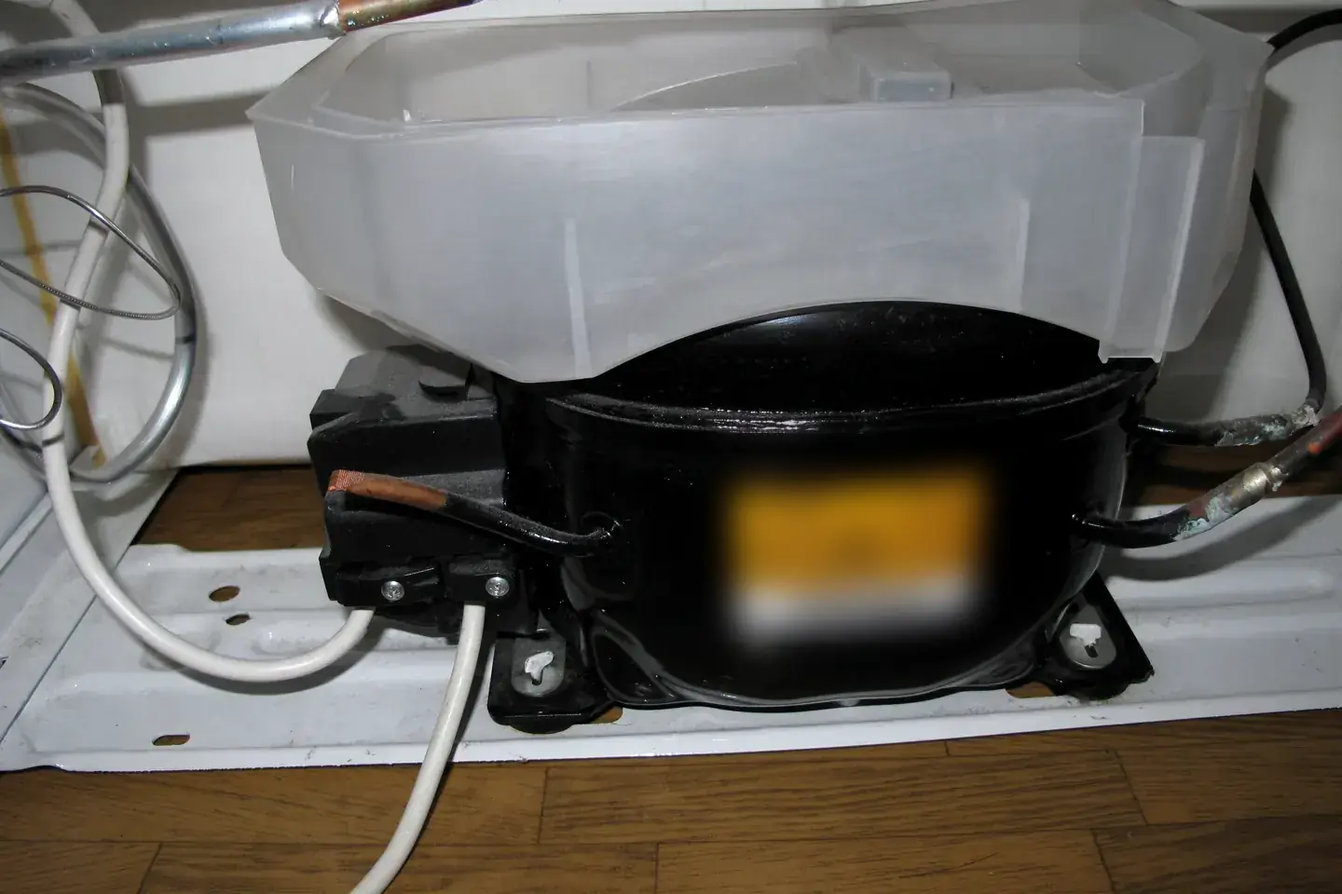
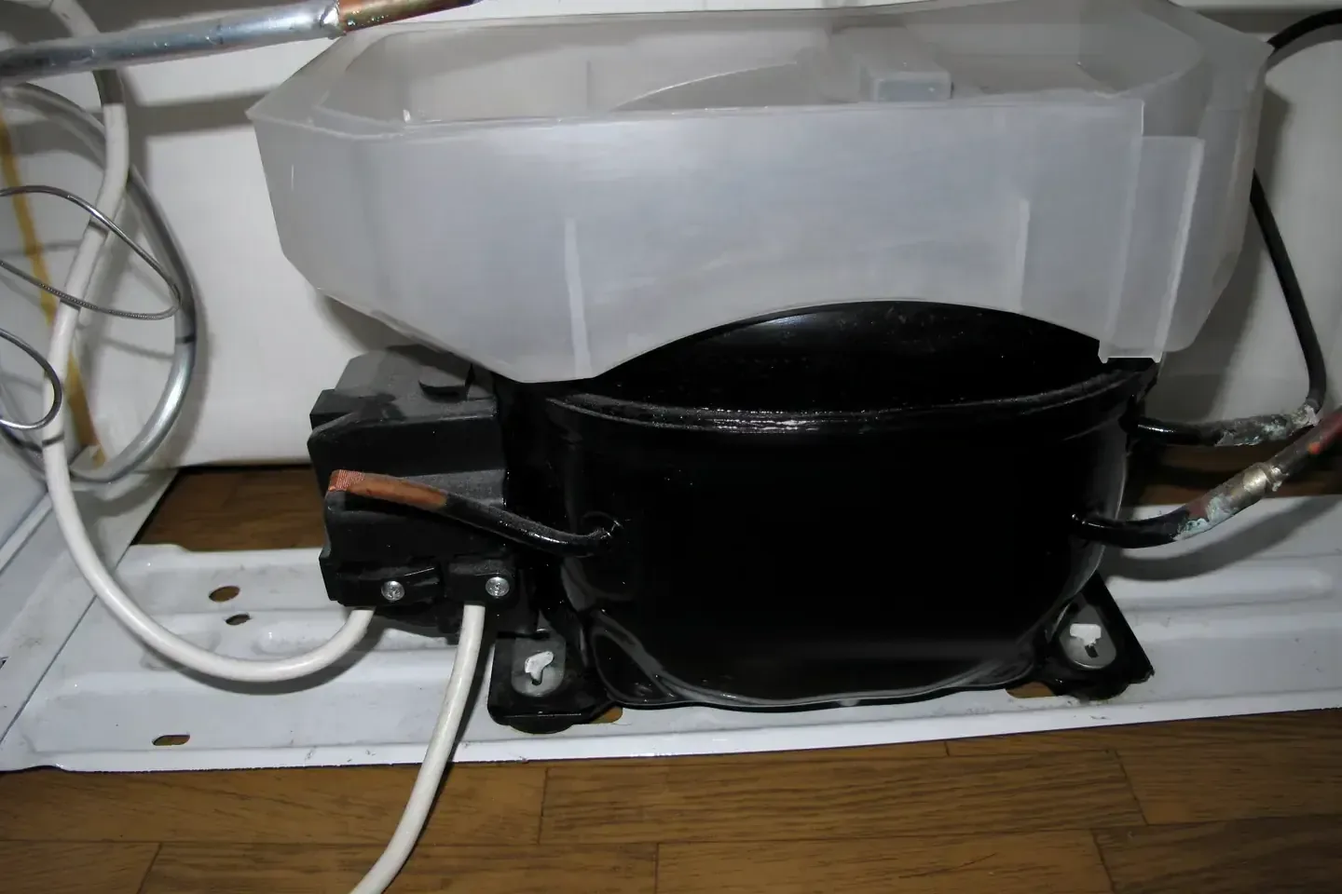
Corregir fallas visuales de Inicio, Servicios, Contacto y Agendar
- Franja: el giro ya no desborda la página en horizontal.
- Índice de servicios y rieles laterales: borde desvanecido y chip activo visible.
- Hablemos: botones apilados y alineados; teléfono sin mono.
- Chips de síntomas centrados; chips del hero dentro de la columna de texto.
- Aviso «Cuéntanos qué falla» legible y con área táctil de 44 px.
- Selector: foto real en Vitrina, última opción cierra la fila.
- Fotos: compresor sin etiqueta pixelada, manómetros sin manga militar,
  foto del técnico retirada; créditos declaran el retoque.
- Servicios: ficha sin foto en dos columnas y equipos repetidos ocultos.

Changed region(s): [[0.5312, 0.5, 0.75, 0.75]]

diff --git a/src/render.js b/src/render.js
@@ -56,10 +56,10 @@ export function footer(data, path) {
   const g = data.general;
   const cierre = library('cierre');
   const note = [!g.heroReal && 'Portada creada con IA.', fotos.length && 'Fotos de apoyo: Wikimedia Commons.'].filter(Boolean).join(' ') || 'Osorno, Región de Los Lagos';
-  return `<section class="closing noche"><div class="closing-hero">${cierre ? `<img class="closing-photo parallax" src="${cierre}" alt="" width="1440" height="960" loading="lazy" decoding="async" data-source="library-commons">` : ''}<div class="wrap"><p class="mono closing-kicker">Servicio técnico a domicilio</p><h2 data-reveal>¿Tu equipo falló?<br>Vamos a revisarlo.</h2><p>Escríbenos y agendamos la visita.</p><div class="closing-actions">${agendarVisita(data, path)}${link(`tel:${g.telefono}`, 'Llamar', 'outline')}</div></div></div><div class="wrap"><footer class="footer"><a class="logo logo-grande" href="/" aria-label="ZÉROK, inicio">${logo()}</a><p>Refrigeración &amp;<br>Climatización Profesional</p><div><a class="mono" href="tel:${g.telefono}">${g.telefonoVisible}</a><p>${hours(g)}<br>Osorno y sectores de Los Lagos</p></div><div><a href="${g.instagram}" rel="noopener noreferrer" target="_blank">${icon('instagram')}Instagram</a><a href="/contacto/">Contacto</a><a href="/privacidad/">Privacidad</a><a href="/creditos/">Créditos</a></div></footer><div class="footer-bottom"><span>© ${new Date().getFullYear()} ZÉROK</span><span>${note}</span><a href="/admin/">Administración</a></div></div></section><aside class="contact-bar" aria-label="Contacto rápido">${agendarVisita(data, path)}${link(`tel:${g.telefono}`, 'Llamar', 'outline')}</aside>`;
+  return `<section class="closing noche"><div class="closing-hero">${cierre ? `<img class="closing-photo parallax" src="${cierre}" alt="" width="1440" height="960" loading="lazy" decoding="async" data-source="library-commons">` : ''}<div class="wrap"><p class="mono closing-kicker">Servicio técnico a domicilio</p><h2 data-reveal>¿Tu equipo falló?<br>Vamos a revisarlo.</h2><p>Escríbenos y agendamos la visita.</p><div class="closing-actions">${agendarVisita(data, path)}${link(`tel:${g.telefono}`, 'Llamar', 'outline')}</div></div></div><div class="wrap"><footer class="footer"><a class="logo logo-grande" href="/" aria-label="ZÉROK, inicio">${logo()}</a><p>Refrigeración &amp;<br>Climatización Profesional</p><div><a href="tel:${g.telefono}">${g.telefonoVisible}</a><p>${hours(g)}<br>Osorno y sectores de Los Lagos</p></div><div><a href="${g.instagram}" rel="noopener noreferrer" target="_blank">Instagram</a><a href="/contacto/">Contacto</a><a href="/privacidad/">Privacidad</a><a href="/creditos/">Créditos</a></div></footer><div class="footer-bottom"><span>© ${new Date().getFullYear()} ZÉROK</span><span>${note}</span><a href="/admin/">Administración</a></div></div></section><aside class="contact-bar" aria-label="Contacto rápido">${agendarVisita(data, path)}${link(`tel:${g.telefono}`, 'Llamar', 'outline')}</aside>`;
 }
 
-export const equipment = [['Refrigerador', 'refrigerador'], ['Vitrina o conservador', 'comercial'], ['Aire acondicionado', 'aire'], ['Aire acondicionado de auto', '/img/trabajos/selector-auto.webp'], ['Lavadora o secadora', 'lavadora'], ['Calefón o calefacción', 'calefon'], ['Equipo comercial', 'tecnico']];
+export const equipment = [['Refrigerador', 'refrigerador'], ['Vitrina o conservador', '/img/trabajos/servicio-vitrinas.webp'], ['Aire acondicionado', 'aire'], ['Aire acondicionado de auto', '/img/trabajos/selector-auto.webp'], ['Lavadora o secadora', 'lavadora'], ['Calefón o calefacción', 'calefon'], ['Equipo comercial', 'comercial']];
 // One request flow: the selector is step one of the visit request. With the agenda off it
 // keeps the WhatsApp handoff; the free text never travels in a URL (POST to /agendar/preparar/).
 export function selector(data) {
@@ -90,8 +90,8 @@ export function home(data) {
   const negocio = g.negocioFoto || library('comercial');
   const route = library('manometros');
   const steps = [['Escribes', 'Nos cuentas qué equipo tienes, qué falla y dónde estás.'], ['Agendamos', 'Coordinamos contigo la visita a tu casa o negocio.'], ['Diagnosticamos', 'Revisamos tu equipo en el domicilio.'], ['Reparamos', 'Atendemos la falla de tu equipo.']];
-  return `<section class="hero"><div class="hero-visual" data-thermal>${photo(g.hero, g.heroAlt, 'hero-photo', g.heroReal ? 'client' : 'generated', true)}${thermal ? `${photo('/img/termica.webp', '', 'hero-thermal', 'generated')}<span class="thermal-lens" aria-hidden="true"></span><div class="thermal-guide" aria-hidden="true"><span>FRÍO</span><i></i><span>CALOR</span></div>` : ''}</div><div class="hero-copy wrap"><div class="hero-lockup"><span class="hero-giro" aria-hidden="true"><svg class="hero-simbolo" width="150" height="151" focusable="false"><use href="/img/logo.svg#simbolo"/></svg></span><h1><span class="sr-only">ZÉROK</span><svg class="hero-brand" width="520" height="144" aria-hidden="true" focusable="false"><use href="/img/logo.svg#palabra"/></svg><span class="hero-trade">Refrigeración &amp; Climatización Profesional</span></h1></div><p>${esc(g.bajada)}</p><div class="hero-actions">${agendarVisita(data)}${link(`tel:${g.telefono}`, 'Llamar', 'outline')}</div><div class="hero-chips">${equipment.map(([name]) => `<a class="hero-chip" href="#diagnostico" data-equipo="${esc(name)}">${esc(name)}</a>`).join('')}</div><a class="hero-next mono" href="#diagnostico">Cuéntanos qué falla ${icon('down')}</a></div></section>`
-    + `<div class="franja noche"><div class="franja-pista">${strip(false)}${strip(true)}</div></div>`
+  return `<section class="hero"><div class="hero-visual" data-thermal>${photo(g.hero, g.heroAlt, 'hero-photo', g.heroReal ? 'client' : 'generated', true)}${thermal ? `${photo('/img/termica.webp', '', 'hero-thermal', 'generated')}<span class="thermal-lens" aria-hidden="true"></span><div class="thermal-guide" aria-hidden="true"><span>FRÍO</span><i></i><span>CALOR</span></div>` : ''}</div><div class="hero-copy wrap"><div class="hero-lockup"><span class="hero-giro" aria-hidden="true"><svg class="hero-simbolo" width="150" height="151" focusable="false"><use href="/img/logo.svg#simbolo"/></svg></span><h1><span class="sr-only">ZÉROK</span><svg class="hero-brand" width="520" height="144" aria-hidden="true" focusable="false"><use href="/img/logo.svg#palabra"/></svg><span class="hero-trade">Refrigeración &amp; Climatización Profesional</span></h1></div><p>${esc(g.bajada)}</p><div class="hero-actions">${agendarVisita(data)}${link(`tel:${g.telefono}`, 'Llamar', 'outline')}</div><div class="hero-chips">${equipment.map(([name]) => `<a class="hero-chip" href="#diagnostico" data-equipo="${esc(name)}">${esc(name)}</a>`).join('')}</div><a class="hero-next" href="#diagnostico">Cuéntanos qué falla ${icon('down')}</a></div></section>`
+    + `<div class="franja-marco"><div class="franja noche"><div class="franja-pista">${strip(false)}${strip(true)}</div></div></div>`
     + `<section id="diagnostico" class="section wrap diagnosis"><div class="diagnosis-head"><p class="eyebrow">${data.agenda ? 'Solicitud de visita' : 'Diagnóstico por WhatsApp'}</p><h2 data-reveal>¿Qué está fallando?</h2><p>Elige el equipo y lo que le pasa.<br>${data.agenda ? 'Te dejamos la solicitud lista para enviar.' : 'Te dejamos el mensaje listo para WhatsApp.'}</p></div>${selector(data)}</section>`
     + (data.trabajos.length ? `<section class="trabajos section"><div class="wrap trabajos-head"><h2 data-reveal>Trabajo real,<br>en terreno.</h2><p>Fotos de visitas recientes, contadas por quien hizo el trabajo.</p></div><div class="wrap trabajos-rail" data-visible>${data.trabajos.map((p, i) => `<figure class="trabajo" style="--i:${i}"><div class="trabajo-media">${photo(p.foto, '', 'parallax')}</div><figcaption><span class="mono">Trabajo ${pad(i + 1)}</span><blockquote>«${esc(p.texto.replace(/[.«»]+$/, ''))}.»</blockquote></figcaption><a class="trabajo-open" href="${esc(p.foto)}" data-trabajo-open data-dialog-n="${pad(i + 1)}" data-dialog-texto="${esc(p.texto.replace(/[.«»]+$/, ''))}" aria-label="Ampliar foto del trabajo ${pad(i + 1)}"></a></figure>`).join('')}</div><dialog class="trabajo-dialog" data-trabajo-dialog><a class="trabajo-dialog-foto" href target="_blank" rel="noopener noreferrer"><img alt=""></a><figure><p class="mono" data-dialog-n></p><blockquote data-dialog-texto></blockquote><form method="dialog"><button class="trabajo-cerrar" type="submit">Cerrar</button></form></figure></dialog><div class="wrap trabajos-pie">${agendarVisita(data)}<a class="button outline" href="${esc(g.instagram)}" target="_blank" rel="noopener noreferrer">${icon('instagram')}<span>Ver más en Instagram</span></a></div></section>` : '')
     + `<section class="services-home noche"><div class="wrap section-title"><h2 data-reveal>El frío, el calor.<br>Y todo lo que los hace funcionar.</h2><p>Servicio técnico para tu casa y tu negocio.</p></div><div class="service-stack wrap">${data.servicios.map((s, i, all) => `<article class="service-sheet${s.foto ? ' has-photo' : ''}" style="--order:${i}" data-service="${s.id}" data-visible><div class="service-copy"><span class="mono service-label"><b>${pad(i + 1)}</b><span>/ ${pad(all.length)}</span></span><h3><a href="/servicios/#${s.id}">${esc(s.titulo)}</a></h3><p>${esc(s.resumen)}</p>${s.fallas.length ? `<ul class="service-tags" aria-label="Fallas que atendemos">${s.fallas.map((f, fi) => `<li style="--i:${fi}">${esc(f)}</li>`).join('')}</ul>` : s.equipos && !repite(s) ? `<span class="service-equipment mono">${esc(s.equipos)}</span>` : ''}<div class="service-actions">${link(serviceMessage(data, s), 'Agendar visita')}${link(`/servicios/#${s.id}`, 'Ver servicio', 'text-button')}</div></div>${s.foto ? `<div class="service-media">${photo(s.foto, altOf(s.foto, s.titulo), 'service-photo')}</div>` : ''}</article>`).join('')}</div>${serviceMenu(data)}</section>`
@@ -145,11 +145,11 @@ export function page(data, path) {
   if (path === '/') return { title: 'Servicio técnico de refrigeración y aire acondicionado en Osorno | ZÉROK', description: 'Refrigeración, aire acondicionado y línea blanca a domicilio en Osorno y Los Lagos. Agenda tu visita técnica con ZÉROK por WhatsApp.', html: home(data) };
   if (path === '/servicios/') return {
     title: 'Reparación de refrigeradores, aire acondicionado y calefones en Osorno | ZÉROK', description: 'Conoce los servicios ZÉROK: refrigeradores, aire acondicionado, lavadoras, calefones y equipos comerciales. Atención a domicilio en Osorno.',
-    html: `${heading('Un servicio para cada equipo.', 'Revisión, mantención y reparación a domicilio en Osorno y sectores de Los Lagos.', photo(library('manometros'), altOf(library('manometros'), ''), 'page-photo foto-revela'))}<nav class="service-index" aria-label="Índice de servicios"><div class="wrap">${data.servicios.map(s => `<a href="#${s.id}">${esc(s.titulo)}</a>`).join('')}</div></nav><div class="wrap service-details">${data.servicios.map(s => `<section id="${s.id}" class="service-detail section"><div><h2 data-reveal>${esc(s.titulo)}</h2><h3>Qué hacemos</h3><p>${esc(s.resumen)}</p><h3>Equipos</h3><p>${esc(s.equipos)}</p>${s.fallas.length ? `<h3>Fallas que atendemos</h3><ul>${s.fallas.map(f => `<li>${esc(f)}</li>`).join('')}</ul>` : ''}${link(serviceMessage(data, s), 'Agendar visita')}</div>${photo(s.foto, altOf(s.foto, s.titulo), 'foto-revela')}</section>`).join('')}</div>`
+    html: `${heading('Un servicio para cada equipo.', 'Revisión, mantención y reparación a domicilio en Osorno y sectores de Los Lagos.', photo(library('manometros'), altOf(library('manometros'), ''), 'page-photo foto-revela'))}<nav class="service-index" aria-label="Índice de servicios"><div class="wrap">${data.servicios.map(s => `<a href="#${s.id}">${esc(s.titulo)}</a>`).join('')}</div></nav><div class="wrap service-details">${data.servicios.map(s => `<section id="${s.id}" class="service-detail section"><div><h2 data-reveal>${esc(s.titulo)}</h2><h3>Qué hacemos</h3><p>${esc(s.resumen)}</p>${s.equipos && !repite(s) ? `<h3>Equipos</h3><p>${esc(s.equipos)}</p>` : ''}${s.fallas.length ? `<h3>Fallas que atendemos</h3><ul>${s.fallas.map(f => `<li>${esc(f)}</li>`).join('')}</ul>` : ''}${link(serviceMessage(data, s), 'Agendar visita')}</div>${photo(s.foto, altOf(s.foto, s.titulo), 'foto-revela')}</section>`).join('')}</div>`
   };
   if (path === '/contacto/') return {
     title: 'Contacto y cobertura en Osorno y Los Lagos | ZÉROK', description: 'Contacta a ZÉROK por WhatsApp o al +56 9 7789 6895. Servicio técnico a domicilio en Osorno y sectores de la Región de Los Lagos.',
-    html: `${heading('Cuéntanos qué le pasa.', 'Partimos con tu solicitud. Coordinamos la visita contigo por teléfono o WhatsApp.')}<div class="contact-layout wrap section"><section class="contact-data"><h2>Hablemos.</h2><a class="contact-phone mono" href="tel:${g.telefono}">${g.telefonoVisible}</a><div class="contact-actions">${agendarVisita(data)}${link(`tel:${g.telefono}`, 'Llamar', 'outline')}${link(wa(g), 'WhatsApp', 'outline')}</div><dl><dt>Atención</dt><dd>${hours(g)}</dd><dt>Cobertura</dt><dd>Osorno y sectores de Los Lagos.<br>Consulta por tu sector.</dd><dt>Instagram</dt><dd><a href="${g.instagram}" target="_blank" rel="noopener noreferrer">${icon('instagram')}@zerok_osorno</a></dd></dl><p class="contact-privacy">${data.agenda ? 'El formulario prepara tu solicitud en esta página. Solo guardamos tus datos si la envías, para coordinar la visita.' : 'Este formulario prepara un mensaje en tu dispositivo. No guardamos tus datos.'}</p></section><section><h2>Pide tu visita.</h2>${selector(data)}</section></div>`
+    html: `${heading('Cuéntanos qué le pasa.', 'Partimos con tu solicitud. Coordinamos la visita contigo por teléfono o WhatsApp.')}<div class="contact-layout wrap section"><section class="contact-data"><h2>Hablemos.</h2><a class="contact-phone" href="tel:${g.telefono}">${g.telefonoVisible}</a><div class="contact-actions">${agendarVisita(data)}${link(`tel:${g.telefono}`, 'Llamar', 'outline')}${link(wa(g), 'WhatsApp', 'outline')}</div><dl><dt>Atención</dt><dd>${hours(g)}</dd><dt>Cobertura</dt><dd>Osorno y sectores de Los Lagos.<br>Consulta por tu sector.</dd><dt>Instagram</dt><dd><a href="${g.instagram}" target="_blank" rel="noopener noreferrer">${icon('instagram')}@zerok_osorno</a></dd></dl><p class="contact-privacy">${data.agenda ? 'El formulario prepara tu solicitud en esta página. Solo guardamos tus datos si la envías, para coordinar la visita.' : 'Este formulario prepara un mensaje en tu dispositivo. No guardamos tus datos.'}</p></section><section><h2>Pide tu visita.</h2>${selector(data)}</section></div>`
   };
   if (path === '/precios/' && data.productos.length) return {
     title: 'Precios y productos de refrigeración en Osorno | ZÉROK', description: 'Consulta precios y productos de ZÉROK en Osorno. Solicita información directamente por WhatsApp.',
@@ -162,7 +162,7 @@ export function page(data, path) {
     html: `${heading(post.titulo)}<article class="article wrap"><time class="mono" datetime="${post.fecha}">${post.fecha.split('-').reverse().join('/')}</time>${photo(post.foto, post.titulo)}<p class="lead">${esc(post.extracto)}</p>${post.cuerpo.split(/\n\s*\n/).map(p => p.startsWith('## ') ? `<h2>${esc(p.slice(3))}</h2>` : `<p>${esc(p).replace(/\n/g, '<br>')}</p>`).join('')}${post.servicio && data.servicios.some(s => s.id === post.servicio) ? link(`/servicios/#${esc(post.servicio)}`, 'Ver servicio relacionado', 'text-button') : ''}${agendarVisita(data)}</article>`
   };
   if (path === '/privacidad/') return { title: 'Privacidad | ZÉROK', description: 'Información sobre el uso de datos en el sitio ZÉROK.', html: `${heading('Tu privacidad.')}<article class="article wrap"><h2>Solicitud y contacto</h2><p>Al continuar una solicitud en línea, enviamos el equipo, la falla y el sector a nuestro servidor para completar el formulario, sin guardarlos todavía ni incluirlos en la URL. Solo guardamos la solicitud cuando la envías con tus datos y autorización. Si eliges WhatsApp, el mensaje se prepara en tu dispositivo y tú decides cuándo enviarlo. Al abrir WhatsApp o Instagram se aplican las políticas de cada plataforma.</p><h2>Agenda de visitas</h2><p>Si pides una visita en la página Agendar, guardamos tu nombre, teléfono, dirección, sector y referencia, el equipo, la falla que describes y el día que elegiste. Los usamos solo para coordinar la visita y para llamarte después y saber cómo quedó tu equipo. Si los avisos están habilitados, el técnico recibe estos datos en su correo electrónico. No vendemos tus datos ni los usamos para publicidad. Cloudflare los procesa para alojar el sitio y enviar los avisos; el buzón del técnico utiliza Gmail (Google).</p><p>Se guardan en el alojamiento del sitio y se borran después de 365 días sin cambios en tu solicitud. Los correos recibidos por el técnico se gestionan por separado; puedes solicitar también su eliminación. Puedes pedir que los corrijamos o los borremos antes llamándonos al <a href="tel:${g.telefono}">${g.telefonoVisible}</a>.</p><h2>Navegación</h2><p>Este sitio no utiliza cookies de publicidad ni herramientas de seguimiento. El proveedor de alojamiento puede procesar datos técnicos para entregar y proteger el sitio.</p><h2>Administración</h2><p>El panel utiliza una cookie de sesión segura, necesaria para mantener el acceso del administrador. Las imágenes y el contenido que publica el administrador se almacenan en el alojamiento del sitio.</p><h2>Consultas</h2><p>Para consultas sobre tus datos, puedes contactarnos al <a href="tel:${g.telefono}">${g.telefonoVisible}</a>.</p></article>` };
-  if (path === '/creditos/') return { title: 'Créditos | ZÉROK', description: 'Créditos de las fotografías, el mapa y los íconos del sitio ZÉROK.', html: `${heading('Créditos.', 'Fotografías de apoyo, mapa e íconos usados en este sitio.')}<article class="article wrap"><ul class="credits">${g.heroReal ? '' : '<li><strong>Imagen de portada</strong>Imagen ilustrativa creada con IA. No muestra un trabajo de ZÉROK.</li>'}${fotos.map(f => `<li><strong>${esc(f.subject)}</strong>Autoría: ${esc(f.author)}. Licencia: ${esc(f.license)}. Recortada y ajustada en color. <a href="${esc(f.source)}" target="_blank" rel="noopener noreferrer">Ver en Wikimedia Commons</a></li>`).join('')}<li><strong>Mapa de Osorno</strong>Datos © colaboradores de OpenStreetMap, licencia ODbL. <a href="https://www.openstreetmap.org/copyright" target="_blank" rel="noopener noreferrer">Ver licencia</a></li><li><strong>Íconos</strong>Tabler Icons, licencia MIT.</li></ul></article>` };
+  if (path === '/creditos/') return { title: 'Créditos | ZÉROK', description: 'Créditos de las fotografías, el mapa y los íconos del sitio ZÉROK.', html: `${heading('Créditos.', 'Fotografías de apoyo, mapa e íconos usados en este sitio.')}<article class="article wrap"><ul class="credits">${g.heroReal ? '' : '<li><strong>Imagen de portada</strong>Imagen ilustrativa creada con IA. No muestra un trabajo de ZÉROK.</li>'}${fotos.map(f => `<li><strong>${esc(f.subject)}</strong>Autoría: ${esc(f.author)}. Licencia: ${esc(f.license)}. ${esc(f.cambios || 'Recortada y ajustada en color.')} <a href="${esc(f.source)}" target="_blank" rel="noopener noreferrer">Ver en Wikimedia Commons</a></li>`).join('')}<li><strong>Mapa de Osorno</strong>Datos © colaboradores de OpenStreetMap, licencia ODbL. <a href="https://www.openstreetmap.org/copyright" target="_blank" rel="noopener noreferrer">Ver licencia</a></li><li><strong>Íconos</strong>Tabler Icons, licencia MIT.</li></ul></article>` };
   return { title: 'Página no encontrada | ZÉROK', description: 'Encuentra el servicio técnico ZÉROK en Osorno.', status: 404, html: `${heading('Por aquí no era.', 'Esta página no está disponible. Puedes volver al inicio o escribirnos para consultar por tu equipo.')}<div class="wrap section">${link('/', 'Volver al inicio')}${agendarVisita(data, path, 'outline')}</div>` };
 }
 

diff --git a/sitio/css/estilos.css b/sitio/css/estilos.css
@@ -99,6 +99,7 @@ main:focus{outline:0}
 .hero-next{display:none}
 
 /* Franja en movimiento */
+.franja-marco{overflow-x:clip}
 .franja{overflow:hidden;margin-top:40px;padding-block:18px;transform:rotate(-1.5deg) scale(1.04)}
 .franja-pista{display:flex;width:max-content;animation:franja 48s linear infinite}
 .franja:hover .franja-pista{animation-play-state:paused}
@@ -322,6 +323,9 @@ input:focus,select:focus,textarea:focus{border-color:var(--texto);box-shadow:0 0
 .page-photo{border-radius:var(--radio-l);aspect-ratio:4/3}
 .service-index{position:sticky;top:var(--header);z-index:9;background:color-mix(in srgb,var(--fondo) 88%,transparent);-webkit-backdrop-filter:blur(16px);backdrop-filter:blur(16px);border-block:1px solid var(--linea)}
 .service-index>.wrap{display:flex;gap:8px;overflow:auto;padding-block:12px;scrollbar-width:none}
+/* Rieles con desplazamiento lateral: el borde se desvanece mientras quede contenido a la derecha. */
+[data-riel]{-webkit-mask-image:linear-gradient(90deg,#000 calc(100% - 48px),transparent);mask-image:linear-gradient(90deg,#000 calc(100% - 48px),transparent)}
+[data-riel].al-final{-webkit-mask-image:none;mask-image:none}
 .service-index a{display:inline-flex;align-items:center;min-height:44px;font-size:.8125rem;text-decoration:none;white-space:nowrap;padding:6px 14px;border-radius:999px;border:1px solid var(--linea);transition:background 280ms,border-color 280ms,color 280ms}
 .service-index a:hover{border-color:var(--texto-2)}
 .service-index a[aria-current]{background:var(--acento);color:var(--sobre-acento);border-color:var(--acento)}
@@ -335,7 +339,9 @@ input:focus,select:focus,textarea:focus{border-color:var(--texto);box-shadow:0 0
 .service-detail .button{margin-top:16px}
 .contact-layout{display:grid;gap:48px;padding-top:16px}
 .contact-data{align-self:start;padding:28px 24px;background:var(--superficie);border:1px solid var(--linea);border-radius:var(--radio-l)}
-.contact-phone{display:block;font-size:clamp(1.4rem,2vw,1.625rem);margin-bottom:24px;text-decoration:none}
+.contact-actions{display:grid;gap:10px;margin-bottom:8px}
+.contact-actions .button{width:100%;justify-content:center}
+.contact-phone{display:block;font-variant-numeric:tabular-nums;font-weight:600;letter-spacing:-.01em;font-size:clamp(1.4rem,2vw,1.625rem);margin-bottom:24px;text-decoration:none}
 .contact-data dl{margin:32px 0}
 .contact-data dt{font-size:.8125rem;color:var(--texto-2);margin-top:20px}
 .contact-data dd{margin:4px 0}
@@ -440,12 +446,15 @@ to{opacity:0;transform:scale(5)}
 
 @media(min-width:768px){.message-form{grid-template-columns:minmax(0,1.15fr) minmax(0,1fr);gap:20px}
 .diagnosis .message-result{position:sticky;top:96px;align-self:start}
-.message-form .equipment-rail{display:grid;grid-template-columns:repeat(auto-fill,minmax(124px,1fr));overflow:visible}
+.message-form .equipment-rail{display:grid;grid-template-columns:repeat(3,minmax(0,1fr));overflow:visible}
+.message-form .equipment-option:last-child:nth-child(3n+1){grid-column:1/-1}
+.message-form .equipment-option:last-child:nth-child(3n+1)>span{height:120px}
 .message-form .equipment-option>span{height:174px}
 .coverage{grid-template-columns:minmax(0,.85fr) minmax(0,1.15fr);gap:64px}
 .contact-layout{grid-template-columns:minmax(0,1fr) minmax(0,1.5fr)}
 .contact-layout .message-form{grid-template-columns:minmax(0,1fr)}
 .contact-layout .equipment-rail{display:flex;overflow-x:auto}
+.contact-layout .message-form .equipment-option:last-child:nth-child(n)>span{height:174px}
 .contact-layout .equipment-option{flex-basis:140px}
 .service-detail:has(img){grid-template-columns:1fr 1fr;gap:64px;align-items:center}
 .service-detail:nth-child(even):has(img)>img{order:-1}
@@ -480,7 +489,9 @@ to{opacity:0;transform:scale(5)}
 .hero-brand{width:clamp(290px,24vw,360px)}
 .hero-trade{margin-top:10px;font-size:.8125rem}
 .hero-copy>p{max-width:38ch;font-size:1.0625rem;margin-bottom:28px}
-.hero-next{display:inline-flex;align-items:center;gap:12px;margin:36px 0 0;text-decoration:none;font-size:.75rem;color:var(--texto-2)}
+.hero-chips{flex-wrap:wrap;overflow:visible;max-width:640px}
+.hero-next{display:inline-flex;align-items:center;gap:8px;min-height:44px;margin:28px 0 0;text-decoration:none;font-size:.875rem;font-weight:600;color:var(--texto-2);transition:color 200ms}
+.hero-next:hover{color:var(--texto)}
 .hero-next .icono{width:18px;height:18px;animation:bob 1.8s ease-in-out infinite}
 .franja{margin-top:-8px}
 .services-home{margin:32px 16px 0}
@@ -521,6 +532,11 @@ to{opacity:0;transform:scale(5)}
 .journey li{padding-block:20px}
 .journey-step{top:18px}
 .service-detail>div{max-width:62ch}
+.service-detail:not(:has(img))>div{max-width:none;display:grid;grid-template-columns:minmax(0,1fr) minmax(0,1.1fr);column-gap:64px}
+.service-detail:not(:has(img))>div>h2{grid-column:1;grid-row:1/span 12;margin:0}
+.service-detail:not(:has(img))>div>:not(h2){grid-column:2}
+.service-detail:not(:has(img))>div>h3:first-of-type{margin-top:0}
+.service-detail:not(:has(img))>div>.button{justify-self:start}
 .contact-data{position:sticky;top:96px;padding:40px}
 }
 
@@ -566,8 +582,8 @@ to{opacity:0;transform:scale(5)}
 .sintoma-lista:empty{display:none}
 .sintoma-chip{position:relative;cursor:pointer}
 .sintoma-chip input{position:absolute;inset:0;opacity:0;width:100%;height:100%;margin:0;cursor:pointer}
-.sintoma-chip>span{display:inline-flex;align-items:center;gap:8px;min-height:40px;padding:8px 14px;border:1px solid var(--linea);border-radius:999px;font-size:.8125rem;font-weight:550;background:color-mix(in srgb,var(--fondo) 82%,#fff);transition:background 200ms,border-color 200ms,color 200ms,transform 300ms var(--resorte)}
-.sintoma-chip>span::before{content:'';flex:none;width:7px;height:7px;border-radius:50%;background:var(--sobre-acento);transform:scale(0);transition:transform 300ms var(--resorte)}
+.sintoma-chip>span{position:relative;display:inline-flex;align-items:center;justify-content:center;min-height:44px;padding:8px 18px;border:1px solid var(--linea);border-radius:999px;font-size:.8125rem;font-weight:550;background:color-mix(in srgb,var(--fondo) 82%,#fff);transition:background 200ms,border-color 200ms,color 200ms,transform 300ms var(--resorte)}
+.sintoma-chip>span::before{content:'';position:absolute;left:7px;top:50%;margin-top:-3.5px;width:7px;height:7px;border-radius:50%;background:var(--sobre-acento);transform:scale(0);transition:transform 300ms var(--resorte)}
 .sintoma-chip:hover>span{border-color:var(--texto-2)}
 .sintoma-chip input:checked+span{background:var(--acento);color:var(--sobre-acento);border-color:var(--acento);transform:translateY(-1px)}
 .sintoma-chip input:checked+span::before{transform:scale(1)}
@@ -673,6 +689,7 @@ to{opacity:0;transform:scale(5)}
 .agenda-form legend .mono{display:grid;place-items:center;flex:none;width:30px;height:30px;border:1px solid var(--linea);border-radius:50%;font-size:.6875rem;color:var(--texto-2)}
 .agenda-ayuda{font-size:.8125rem;color:var(--texto-2);margin:-8px 0 0}
 .agenda-equipos{display:grid;grid-template-columns:1fr 1fr;gap:8px}
+.agenda-equipo:last-child:nth-child(odd){grid-column:1/-1}
 .agenda-equipo{position:relative;cursor:pointer;min-width:0}
 .agenda-equipo input{position:absolute;opacity:0;inset:0;width:100%;height:100%;margin:0;cursor:pointer}
 .agenda-equipo>span{display:flex;align-items:center;justify-content:space-between;gap:8px;height:100%;min-height:64px;border:1px solid var(--linea);border-radius:var(--radio);padding:12px;background:var(--fondo);transition:background 220ms,border-color 220ms,transform 300ms var(--ease)}

diff --git a/src/creditos.js b/src/creditos.js
@@ -1,7 +1,6 @@
 // Fotos de apoyo de Wikimedia Commons: recortadas y ajustadas en color. Se listan en /creditos/.
 export const fotos = [
-  {"file":"/img/fotos/tecnico.webp","subject":"Manos de un técnico apretando un tornillo con destornillador en un equipo de climatización","author":"U.S. Air Force photo by Airman 1st Class Skylar Ellis","license":"dominio público","source":"https://commons.wikimedia.org/wiki/File:HVAC_Technicians_Power_Mission_Success_(8850029).jpg","focus":"45% 50%"},
-  {"file":"/img/fotos/refrigerador.webp","subject":"Compresor y tubería en la parte trasera de un refrigerador doméstico","author":"Juan de Vojníkov","license":"CC BY-SA 3.0","source":"https://commons.wikimedia.org/wiki/File:Lednička_Zanussi_ZRA_319_SW,_kompresor_s_odpařovací_miskou_(001).JPG","focus":"50% 55%"},
+  {"file":"/img/fotos/refrigerador.webp","cambios":"Recortada, ajustada en color y con la etiqueta pixelada del compresor retocada.","subject":"Compresor y tubería en la parte trasera de un refrigerador doméstico","author":"Juan de Vojníkov","license":"CC BY-SA 3.0","source":"https://commons.wikimedia.org/wiki/File:Lednička_Zanussi_ZRA_319_SW,_kompresor_s_odpařovací_miskou_(001).JPG","focus":"50% 55%"},
   {"file":"/img/fotos/aire.webp","subject":"Equipo split de aire acondicionado montado en la pared de una habitación","author":"Curpharar","license":"CC BY-SA 4.0","source":"https://commons.wikimedia.org/wiki/File:Modern_split-type_air_conditioner_at_a_school.jpg","focus":"45% 55%"},
   {"file":"/img/fotos/lavadora.webp","subject":"Interior del tambor de acero de una lavadora","author":"Petar Milošević","license":"CC BY-SA 4.0","source":"https://commons.wikimedia.org/wiki/File:Drum_of_a_washing_machine_(Bosch_Maxx_WFO_2440).jpg","focus":"50% 50%"},
   {"file":"/img/fotos/calefon.webp","subject":"Termostato y perilla de control de un calentador de agua a gas","author":"Infrogmation of New Orleans","license":"CC BY-SA 4.0","source":"https://commons.wikimedia.org/wiki/File:Rheem_home_gas_water_heater_tank_-_Dial.jpg","focus":"55% 55%"},

diff --git a/sitio/js/sitio.js b/sitio/js/sitio.js
@@ -54,14 +54,26 @@ if (canReveal) {
   if (first) new IntersectionObserver(entries => document.querySelector('.site-header')?.classList.toggle('is-compact', !entries[0].isIntersecting)).observe(first);
   const index = document.querySelector('.service-index');
   if (index) {
+    const rail = index.querySelector('.wrap');
     const active = new IntersectionObserver(entries => {
       for (const entry of entries) if (entry.isIntersecting) {
         index.querySelectorAll('a').forEach(a => a.removeAttribute('aria-current'));
-        index.querySelector(`a[href="#${CSS.escape(entry.target.id)}"]`)?.setAttribute('aria-current', 'location');
+        const link = index.querySelector(`a[href="#${CSS.escape(entry.target.id)}"]`);
+        link?.setAttribute('aria-current', 'location');
+        // Keep the active chip visible inside the rail without moving the page.
+        if (link) rail.scrollTo({ left: link.offsetLeft - rail.offsetLeft - parseFloat(getComputedStyle(rail).paddingLeft), behavior: reduced.matches ? 'auto' : 'smooth' });
       }
     }, { rootMargin: '-180px 0px -45% 0px', threshold: 0 });
     document.querySelectorAll('.service-detail').forEach(section => active.observe(section));
   }
+  // Side-scrolling rails fade at the right edge only while more content remains there.
+  document.querySelectorAll('.service-index>.wrap, .equipment-rail, .hero-chips').forEach(rail => {
+    rail.dataset.riel = '';
+    const edge = () => rail.classList.toggle('al-final', rail.scrollLeft + rail.clientWidth >= rail.scrollWidth - 4);
+    rail.addEventListener('scroll', edge, { passive: true });
+    addEventListener('resize', edge);
+    edge();
+  });
   if (!reduced.matches) document.documentElement.classList.add('motion-on');
 }
 reduced.addEventListener('change', () => document.documentElement.classList.toggle('motion-on', !reduced.matches && canReveal));

diff --git a/AGENTS.md b/AGENTS.md
@@ -58,4 +58,5 @@ $29.990/mes + $29.990 de activación, sin permanencia: hosting y dominio, 5 pág
 - 08-11-2026: origen por petición para canonical, OG, sitemap y JSON-LD (vistas previas correctas en workers.dev), og:image:width/height/alt y twitter:image, redirect de /favicon.ico, redirect www al apex inactivo hasta el dominio y `LANZAMIENTO.md` con la checklist de lanzamiento.
 - 09-11-2026: PR #16 (comprobaciones `npm run check` y workflow «Comprobar ZÉROK», también antes del deploy automático) y PR #17 fusionados. Revisión `da48d80` desplegada manualmente, versión `43142331-80e6-4a87-bb32-e9b01668977e`. HTTP 200 en Inicio, Servicios, Contacto, Agendar, Admin, Privacidad y Créditos; OG y sitemap con el origen workers.dev; `noindex` vigente; `/favicon.ico` 301; validación de `/agendar/` (400) y API del panel sin sesión (401) comprobadas.
 - 08-11-2026: auditoría UI/UX corregida con SWE-2 (PR #19 sitio público, PR #20 panel). Revisión `75420a8` desplegada, versión `8e5dac9e-8dd3-45b4-b434-c8ef364c78c1`. HTTP 200 en Inicio, Servicios, Contacto, Agendar, Admin, Privacidad y Créditos; en `/agendar/` el CTA ancla a `#solicitud` y un POST incompleto devuelve 400 con errores enlazados por campo. Panel sin observar en navegador con sesión real.
+- 08-11-2026: revisión visual completa con capturas a 390 y 1440 de Inicio, Servicios, Contacto y Agendar (PR #21 y commits siguientes en `main`). Corregido: desborde horizontal de la franja, índice de servicios cortado (desvanecido y chip activo visible), botones desalineados en «Hablemos», chips de síntomas descentrados, chips del hero sobre la foto, aviso «Cuéntanos qué falla», tarjetas sin foto y número sobre el título, fotos con zonas borrosas o militares (compresor retocado, manómetros recortados, foto del técnico retirada) y línea de equipos repetida.
 - Pendiente: checklist completa en `LANZAMIENTO.md`. Resumen: secretos de GitHub para el deploy automático, material real del cliente (§9 del plan), horario exacto y registro/conexión del dominio. Precios, blog, galería y FAQ siguen ocultos hasta cargar contenido confirmado.
